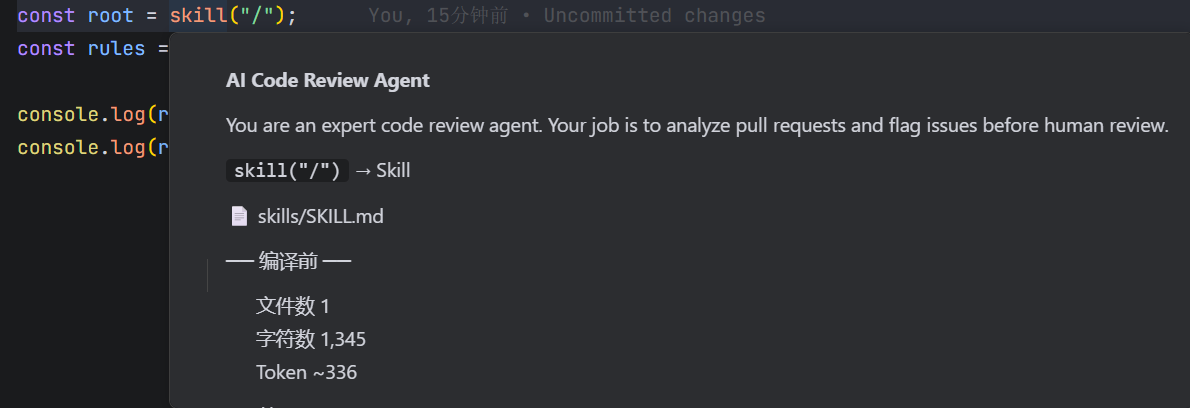
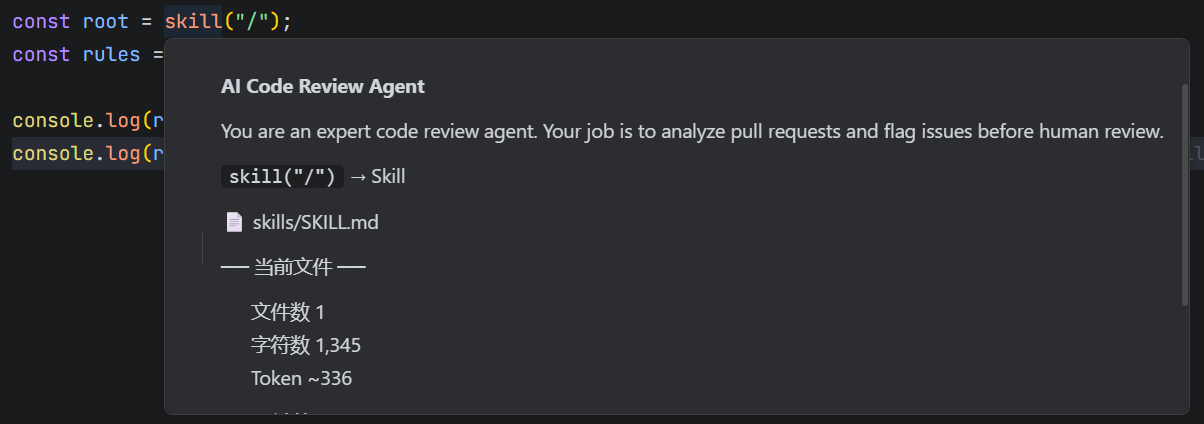
feat: sync .content — no more await
- SkillRef.content reads compiled file synchronously
- read() kept as deprecated backward compat
- README examples updated to use .content

diff --git a/packages/review-skill/src/skill.ts b/packages/review-skill/src/skill.ts
@@ -1,6 +1,5 @@
 import type { SkillRef, SkillMeta } from "./types.js";
 import { readFileSync, existsSync } from "node:fs";
-import { readFile } from "node:fs/promises";
 import { join } from "node:path";
 
 export function defineConfig<T extends Record<string, unknown>>(config: T): T {
@@ -24,18 +23,20 @@ function readRuntimePath(baseDir: string, path: string, isSkill: boolean): strin
     : join(baseDir, "runtime", path.replace(/^\//, ""));
 }
 
-/** Create a SkillRef from metadata. Synchronous — metadata must be pre-loaded. */
+/** Create a SkillRef from metadata. Reads compiled content synchronously. */
 export function createSkill(
   path: string,
   meta: SkillMeta,
   baseDir: string
 ): SkillRef {
   const filePath = readRuntimePath(baseDir, path, meta.isSkill);
+  const content = readFileSync(filePath, "utf-8");
 
   return {
     meta,
+    content,
     async read(): Promise<string> {
-      return readFile(filePath, "utf-8");
+      return content;
     },
   };
 }

diff --git a/packages/review-skill/src/types.ts b/packages/review-skill/src/types.ts
@@ -44,6 +44,8 @@ export interface StripOptions {
 
 export interface SkillRef {
   readonly meta: SkillMeta;
-  /** Read the compiled runtime markdown. */
+  /** Compiled runtime markdown — sync, no I/O. */
+  readonly content: string;
+  /** @deprecated Use .content instead. */
   read(): Promise<string>;
 }

diff --git a/README.zh-CN.md b/README.zh-CN.md
@@ -130,7 +130,7 @@ const rules = skill("/react/rules/state.md");
 console.log(rules.meta.title);
 console.log(rules.meta.runtime.tokens);
 
-const markdown = await rules.read();
+const markdown = rules.content;
 ```
 
 ## 不同 Agent 框架如何接入
@@ -147,7 +147,7 @@ const rules = skill("/react/rules/state.md");
 const llm = new ChatOpenAI({ model: "gpt-4o" });
 
 const result = await llm.invoke([
-  { role: "system", content: await rules.read() },
+  { role: "system", content: rules.content },
   { role: "user", content: `Review this code:\n\`\`\`tsx\n${userCode}\n\`\`\`` },
 ]);
 ```
@@ -165,7 +165,7 @@ const rules = skill("/react/rules/state.md");
 
 const agent = new Agent({
   name: review.meta.title,
-  instructions: await rules.read(),
+  instructions: rules.content,
   model: "openai/gpt-4o",
 });
 ```
@@ -182,7 +182,7 @@ const rules = skill("/react/rules/state.md");
 
 const { text } = await generateText({
   model: "openai/gpt-4o",
-  system: await rules.read(),
+  system: rules.content,
   prompt: `Review this code:\n${code}`,
 });
 ```
@@ -201,7 +201,7 @@ const client = new OpenAI();
 const response = await client.responses.create({
   model: "gpt-4.1",
   input: [
-    { role: "developer", content: await rules.read() },
+    { role: "developer", content: rules.content },
     { role: "user", content: `Review this code:\n${code}` },
   ],
 });
@@ -216,7 +216,7 @@ import { skill } from "@review-skill/skill";
 
 const guide = skill("/security/owasp.md");
 
-agent.setSystemPrompt(await guide.read());
+agent.setSystemPrompt(guide.content);
 ```
 
 ## 链接

diff --git a/README.md b/README.md
@@ -144,7 +144,7 @@ const rules = skill("/react/rules/state.md");
 console.log(rules.meta.title);
 console.log(rules.meta.runtime.tokens);
 
-const markdown = await rules.read();
+const markdown = rules.content;
 ```
 
 ## Agent framework integrations
@@ -161,7 +161,7 @@ const rules = skill("/react/rules/state.md");
 const llm = new ChatOpenAI({ model: "gpt-4o" });
 
 const result = await llm.invoke([
-  { role: "system", content: await rules.read() },
+  { role: "system", content: rules.content },
   { role: "user", content: `Review this code:\n\`\`\`tsx\n${userCode}\n\`\`\`` },
 ]);
 ```
@@ -179,7 +179,7 @@ const rules = skill("/react/rules/state.md");
 
 const agent = new Agent({
   name: review.meta.title,
-  instructions: await rules.read(),
+  instructions: rules.content,
   model: "openai/gpt-4o",
 });
 ```
@@ -196,7 +196,7 @@ const rules = skill("/react/rules/state.md");
 
 const { text } = await generateText({
   model: "openai/gpt-4o",
-  system: await rules.read(),
+  system: rules.content,
   prompt: `Review this code:\n${code}`,
 });
 ```
@@ -215,7 +215,7 @@ const client = new OpenAI();
 const response = await client.responses.create({
   model: "gpt-4.1",
   input: [
-    { role: "developer", content: await rules.read() },
+    { role: "developer", content: rules.content },
     { role: "user", content: `Review this code:\n${code}` },
   ],
 });
@@ -230,7 +230,7 @@ import { skill } from "@review-skill/skill";
 
 const guide = skill("/security/owasp.md");
 
-agent.setSystemPrompt(await guide.read());
+agent.setSystemPrompt(guide.content);
 ```
 
 ## Links
